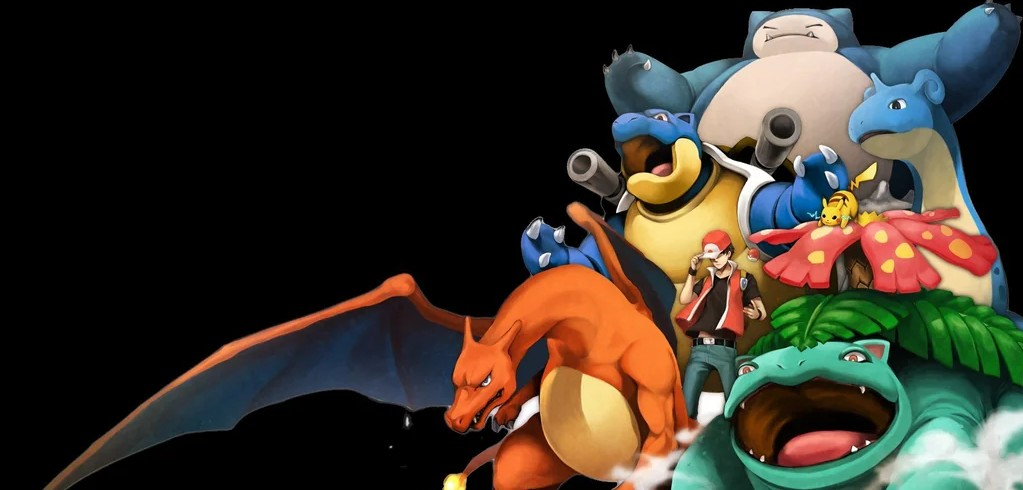
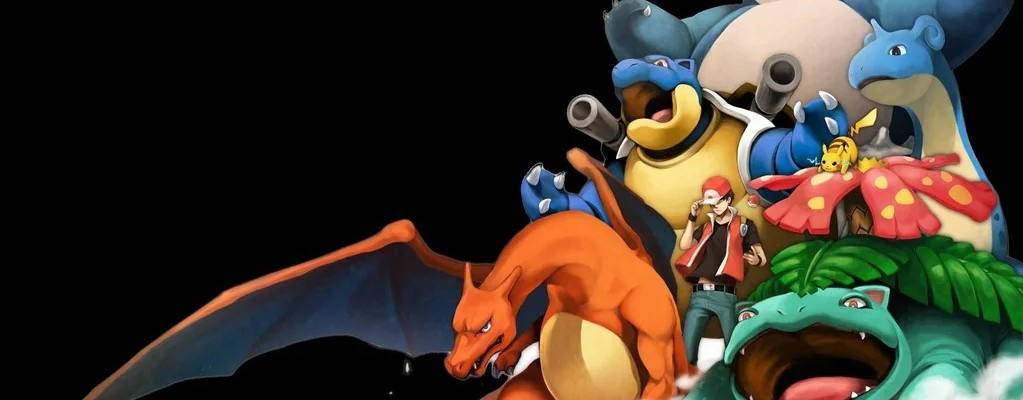
First 2 pages views complete

diff --git a/src/public/css/style.css b/src/public/css/style.css
@@ -6,6 +6,7 @@
   --secondary-color: #ffcb05;
   --tertiary-color: #e3350d;
   --dark-charcoal: #2e2e2e;
+  --nth-background: #2a75bb3d;
 
   /* sizes */
   --font-base: 18px;
@@ -31,9 +32,25 @@ h1 {
   color: var(--primary-color);
 }
 
+h2 {
+  color: var(--tertiary-color);
+  margin-bottom: 10px;
+}
+
 p {
   color: var(--dark-charcoal);
-  padding: 0.75rem;
+}
+
+section {
+  margin-top: 1.5rem;
+}
+
+ul {
+  list-style: none;
+}
+
+ul :nth-child(2n) {
+  background-color: var(--nth-background);
 }
 
 /* ************ Section styles ************ */
@@ -42,48 +59,18 @@ body {
   font-family: var(--font-body);
   font-size: var(--font-base);
   color: var(--dark-charcoal);
+  min-width: 500px;
+  max-width: 1080px;
+  margin: auto;
 }
 
 header {
   display: flex;
+  align-items: center;
   justify-content: space-between;
   padding: 0.5rem;
   padding-top: 20px;
   margin-bottom: 20px;
-}
-
-.hero {
-  position: relative;
-  text-align: center;
-  color: white;
-  margin-bottom: -200px;
-}
-
-#hero-img {
-  width: 100%;
-  height: auto;
-  object-fit: cover;
-  filter: brightness(70%);
-}
-
-.hero-text {
-  position: relative;
-  top: 20%;
-  left: 25%;
-  transform: translate(-50%, -220%);
-  max-width: 500px;
-  padding: 20px;
-}
-
-.hero-text h1 {
-  font-size: 2.5rem;
-  margin-bottom: 10px;
-  color: var(--secondary-color);
-}
-
-.hero-text p {
-  font-size: 1.2rem;
-  color: white;
 }
 
 nav {
@@ -100,11 +87,64 @@ nav ul {
   list-style: none;
 }
 
+ nav ul :nth-child(2n) {
+  background-color: transparent;
+}
+
+.country-flag {
+  width: 30px;
+  height: 20px;
+  border: 1px solid var(--dark-charcoal);
+  text-align: center;
+  font-size: 0.75rem;
+  display: flex;
+  align-items: center;
+  justify-content: center;
+}
+
+.hero {
+  position: relative;
+  text-align: center;
+  color: white;
+  margin-bottom: 20px;
+  display: grid;
+  grid-template-columns: 1fr;
+}
+
+#hero-img {
+  width: 100%;
+  height: auto;
+  object-fit: cover;
+  filter: brightness(70%);
+  grid-column: 1;
+  grid-row: 1;
+  z-index: 1;
+}
+
+.hero-text {
+  grid-column: 1;
+  grid-row: 1;
+  width: 50%;
+  padding: 20px;
+  z-index: 2;
+}
+
+.hero-text h1 {
+  font-size: 2.5rem;
+  margin-bottom: 10px;
+  color: var(--secondary-color);
+}
+
+.hero-text p {
+  font-size: 1.2rem;
+  color: white;
+}
+
 .logo {
   line-height: 60px;
-  width: 350px;
   display: flex;
   flex-direction: row;
+  align-items: center;
   gap: 20px;
   font-size: 30px;
   font-family: var(--font-headline);
@@ -145,7 +185,6 @@ nav ul {
   font-size: 0.9rem;
 }
 
-/* EV summary */
 .ev-summary {
   display: flex;
   flex-wrap: wrap;
@@ -164,27 +203,23 @@ nav ul {
   padding: 4px 10px;
 }
 
-/* Filters */
 .filters {
   display: flex;
   gap: 10px;
   margin-bottom: 20px;
 }
 
-/* Stat title */
 .stat-title {
   text-align: center;
   margin-bottom: 20px;
 }
 
-/* Pokémon grid */
 .pokemon-grid {
   display: grid;
   grid-template-columns: repeat(5, 1fr);
   gap: 20px;
 }
 
-/* Pokémon card */
 .pokemon-card {
   text-align: center;
 }
@@ -211,33 +246,72 @@ nav ul {
   position: relative;
 }
 
-/* Optional star placeholder */
-.pokemon-image::after {
-  content: "★";
+#favorites-btn {
+  background: transparent;
+  border: none;
+  font-size: 2.0rem;
+  cursor: pointer;
   position: absolute;
-  top: 4px;
-  right: 6px;
-  font-size: 1.2rem;
+  top: 150px;
+  right: 100px;
 }
 
-/* Country flag */
-.country-flag {
-  border: 1px solid var(--dark-charcoal);
-  text-align: center;
-  font-size: 0.75rem;
-  display: flex;
-  align-items: center;
-  justify-content: center;
+footer {
+  font-size: var(--small-font);
+  padding: 1em;
+  margin-top: 20px;
 }
 
-@media screen and (min-width: 500px) {
+/****************** Pokémon detail styles ************ */
+.pokemon-container {
+  max-width: 800px;
+  margin: 2rem auto;
+  background: white;
+  padding: 2rem;
+  border-radius: 8px;
+}
+
+#pokemon-sprite {
+  width: 200px;
+  display: block;
+  margin: 1rem auto;
+}
+
+/****************** Responsive styles ************ */
+@media screen and (max-width: 800px) {
   body {
-    max-width: 1080px;
     margin: auto;
   }
 
-  footer {
-    font-size: var(--small-font);
-    padding: 1em;
+  nav {
+    display: flex;
+    align-items: center;
+    gap: 10px;
+  }
+
+  nav ul {
+    display: flex;
+    flex-direction: column;
+    gap: 10px;
+    align-items: center;
+    list-style: none;
+  }
+
+  nav ul li {
+    font-size: 1.0rem;
+  } 
+
+  .hero-text h1 {
+    font-size: 1.8rem;
+  }
+
+  .hero-text p {
+    display: none;
+  }
+
+  .pokemon-grid {
+    display: grid;
+    grid-template-columns: repeat(4, 1fr);
+    gap: 20px;
   }
 }

diff --git a/src/pokemon/index.html b/src/pokemon/index.html
@@ -1,0 +1,73 @@
+<!doctype html>
+<html lang="en">
+  <head>
+    <meta charset="UTF-8" />
+    <meta name="viewport" content="width=device-width, initial-scale=1.0" />
+    <title>Pokémon EV calculator | Home</title>
+    <link rel="stylesheet" href="/css/style.css" />
+    <link rel="icon" type="image/x-icon" href="/images/favicon.ico" />
+    <script src="../js/pokemon.js" type="module" defer></script>
+  </head>
+
+  <body>
+    <header clas="divider" id="main-header"></header>
+
+    <main class="pokemon-container">
+      <h1 id="pokemon-name">Ditto</h1>
+
+      <img
+        id="pokemon-sprite"
+        alt="Pokemon sprite"
+        src="../public/images/ditto.png"
+      />
+
+      <button id="favorites-btn" alt="Favorites button">⭐</button>
+
+      <section id="types">
+        <h2>Types</h2>
+        <ul id="pokemon-types">
+          <li>Normal</li>
+        </ul>
+      </section>
+
+      <section id="abilities">
+        <h2>Abilities</h2>
+        <ul id="pokemon-abilities">
+          <li>Limber</li>
+          <li>Imposter (Hidden Ability)</li>
+        </ul>
+      </section>
+
+      <section id="stats">
+        <h2>Stats</h2>
+        <ul id="pokemon-stats">
+          <li>HP: 48</li>
+          <li>Attack: 48</li>
+          <li>Defense: 48</li>
+          <li>Special Attack: 48</li>
+          <li>Special Defense: 48</li>
+          <li>Speed: 48</li>
+        </ul>
+      </section>
+
+      <section id="evs">
+        <h2>EVs (from Local Storage)</h2>
+        <ul id="pokemon-evs">
+          <li>HP: 0</li>
+          <li>Attack: 0</li>
+          <li>Defense: 0</li>
+          <li>Special Attack: 0</li>
+          <li>Special Defense: 0</li>
+          <li>Speed: 0</li>
+        </ul>
+      </section>
+
+      <section id="generation">
+        <h2>Generation Introduced</h2>
+        <p id="pokemon-generation">Gen 1</p>
+      </section>
+
+      <footer clas="divider" id="footer"></footer>
+    </main>
+  </body>
+</html>

diff --git a/src/public/partials/header.html b/src/public/partials/header.html
@@ -1,13 +1,13 @@
 <div class="logo">
         <img src="/images/pokeball.jpg" alt="Image for logo" id="logo-img" />
-        <a href="index.html">Pokémon EV calculator</a>
+        <a href="/index.html">Pokémon EV calculator</a>
       </div>
       <nav>
         <ul>
           <li><a href="/index.html">Home</a></li>
-          <li><a href="/favorites/index.html">Saved Pokémon</a></li>
-          <li><a href="/pokemon-pages/index.html">Pokémon Details</a></li>
+          <!-- <li><a href="/favorites/index.html">Saved Pokémon</a></li> -->
+          <li><a href="/pokemon/index.html">Pokémon Details</a></li>
         </ul>
       </nav>
       <!-- Country flag placeholder -->
-      <div class="country-flag">Country flag</div>
+      <div class="country-flag"></div>

diff --git a/vite.config.js b/vite.config.js
@@ -9,7 +9,7 @@ export default defineConfig({
     rollupOptions: {
       input: {
         main: resolve(__dirname, "src/index.html"),
-        saved: resolve(__dirname, "src/favorites/index.html"),
+        /* favorites: resolve(__dirname, "src/favorites/index.html"), */
         pokemon: resolve(__dirname, "src/pokemon_pages/index.html"),
         header: resolve(__dirname, "src/public/partials/header.html"),
         footer: resolve(__dirname, "src/public/partials/footer.html"),
